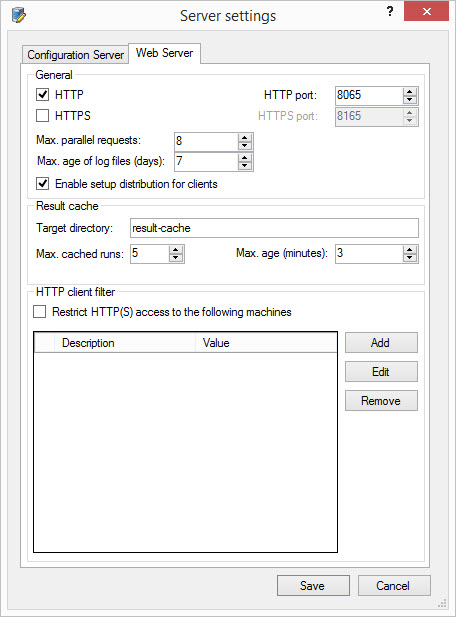
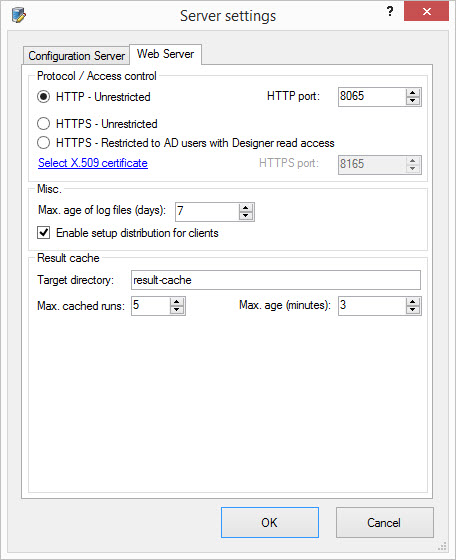
XU:EN/DE: Server Settings - Web server access restrictions XU 3.11

Changed region(s): [[0.0307, 0.0, 0.9825, 0.9714]]

diff --git a/content/_de/xtract-universal/server/server_einstellungen_in_xu_3_x.md b/content/_de/xtract-universal/server/server_einstellungen_in_xu_3_x.md
@@ -27,9 +27,9 @@ Definiert das maximale Alter der Logdateien des Config-Servers in Tagen. Danach 
 siehe Kapitel [Benutzerverwaltung](../sicherheit_in_xu_3_x/benutzerverwaltung1)
 
 **Select X.509 certificate**<br>
-1. Lassen Sie ein TLS Zertifikat von Ihrem IT Netzwerk Team erstellen.
+1. Lassen Sie ein TLS Zertifikat von Ihrem IT Netzwerk Team erstellen. In der Zertifikatseigenschaft "Subject Alternative Name" muss der DNS Name des Servers stehen, auf dem der Xtract Universal Windows Dienst läuft. Ansonsten erscheint das Zertifikat nicht im Lookup Dialog.
 2. Das Zertifikat muss im Windows Certificate Store auf dem XU Server hinterlegt werden.
-3. In der Zertifikatseigenschaft "Subject Alternative Name" muss der DNS Name des Servers stehen, auf dem der Xtract Universal Windows Dienst läuft. Ansonsten erscheint das Zertifikat nicht im Lookup Dialog.
+
 
 **Access Management**<br>
 siehe Kapitel [Zugriffsverwaltung](../sicherheit_in_xu_3_x/zugriffsverwaltung1)
@@ -38,17 +38,20 @@ siehe Kapitel [Zugriffsverwaltung](../sicherheit_in_xu_3_x/zugriffsverwaltung1)
 
 **General**
 
-**HTTP / HTTP port**<br>
+**HTTP - Unrestricted / HTTP port**<br>
 Definiert die Portnummer, über die der Server den Aufruf der Extraktionen über HTTP entgegen nimmt. 
 
-**HTTPS / HTTPS port**<br>
+**HTTPS - Unrestricted / HTTPS port**<br>
 Aktiviert den Datentransfer via HTTPS.
 
 Mit dieser Einstellung können Sie HTTP, HTTPS oder beide Protokolltypen aktivieren. Der run-Befehl generiert eine HTTPS-URL wenn HTTPS aktiviert ist, auch dann wenn HTTP aktiviert sein sollte.
 
-Wenn Sie Daten über HTTPS empfangen wollen, müssen Sie ein SSL-Zertifikat installieren, damit der Server den HTTPS-Port verwalten kann. Dieses Zertifikat muss den Hostnamen des Servers in der Common-Name (CN) Eigenschaft enthalten und durch eine Zertifizierungsstelle erstellt worden sein.
+Wenn Sie Daten über HTTPS empfangen wollen, müssen Sie ein TLS-Zertifikat installieren, damit der Server den HTTPS-Port verwalten kann. Dieses Zertifikat muss den Hostnamen des Servers in der Common-Name (CN) Eigenschaft enthalten und durch eine Zertifizierungsstelle erstellt worden sein.
 
 Weitere Informationen finden Sie in unserem blog: http://www.theobald-software.com/blog/?p=389
+
+**HTTPS - Restricted to AD users with Designer read access**
+Siehe *HTTPS - Unrestricted*. Darüberhinaus ermöglicht diese Einstellung eine Zugriffskontrolle auf die Ausführung von Extraktionen. Extraktionen können nur von Windows AD Benutzern ausgeführt werden, denen im Tabreiter *Configuration Server* mindestens *Read Access* zugewiesen wurde. Siehe auch [hier](https://kb.theobald-software.com/release-notes/XtractUniversal-3.11.0.html).  
 
 **Max. parallel requests**<br>
 Definiert die höchste Anzahl der verschiedenen Extraktionsanfragen, welche parallel bearbeitet werden. Zwei Extraktionsanfragen sind verschieden, wenn sie Extraktionen mit verschiedenen Namen aufrufen. 

diff --git a/content/_en/xtract-universal/server/server-settings-xu3.md b/content/_en/xtract-universal/server/server-settings-xu3.md
@@ -27,9 +27,9 @@ Defines the maximum age of the congig server log files in days. After this perio
 see chapter [User Management](../security-xu3/user-management)
 
 **Select X.509 certificate** <br>
-1. Have your IT network team create a TLS certificate.
+1. Have your IT network team create a TLS certificate. Make sure the certificate has the property "Subject Alternative Name" populated with the DNS name of the server where the Xtract Universal service is running. Otherwise it won't appear in our lookup dialog.
 2. This certificate needs to be placed in the Windows Certificate Store.
-3. Make sure the certificate has the property "Subject Alternative Name" populated with the DNS name of the server where the Xtract Universal service is running. Otherwise it won't appear in our lookup dialog.
+
 
 **Access Management** <br>
 see chapter [Access Management](../security-xu3/access-management)
@@ -45,10 +45,13 @@ Enables the secure datatranfer via HTTPS.
 
 It allows you to configure HTTP, HTTPS or both protocol types. The run statement generates an HTTPS-URL if HTTPS is activated, even if HTTP is activated.
 
-If you want to receive data via HTTPS you have to install a TLS-Certificate on the server where the Xtract Universal service is running. 
+If you want to receive data via HTTPS you have to install a TLS certificate on the server where the Xtract Universal service is running. 
 This certificate must contain the hostname of the server in the common name (CN) attribute and must be released by a certified authority.
 
 If you want to get further information please have a look at our [blog](http://www.theobald-software.com/blog/?p=389).
+
+**HTTPS - Restricted to AD users with Designer read access**
+See *HTTPS - Unrestricted*. In addition to that this setting enables access control for executing an extraction. Extractions can only be executed by Windows AD users who have at least been assigned *read access* in the *Configuration Server* tab. Please do also see [here](https://kb.theobald-software.com/release-notes/XtractUniversal-3.11.0.html).  
 
 
 **Max. parallel requests** <br>
